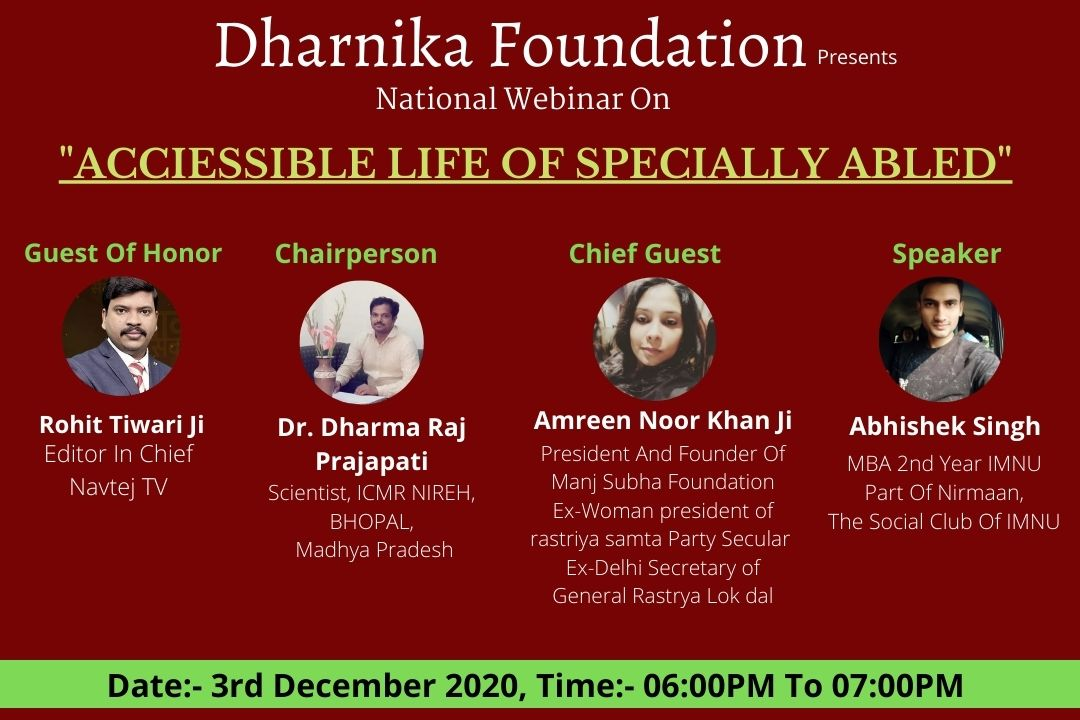
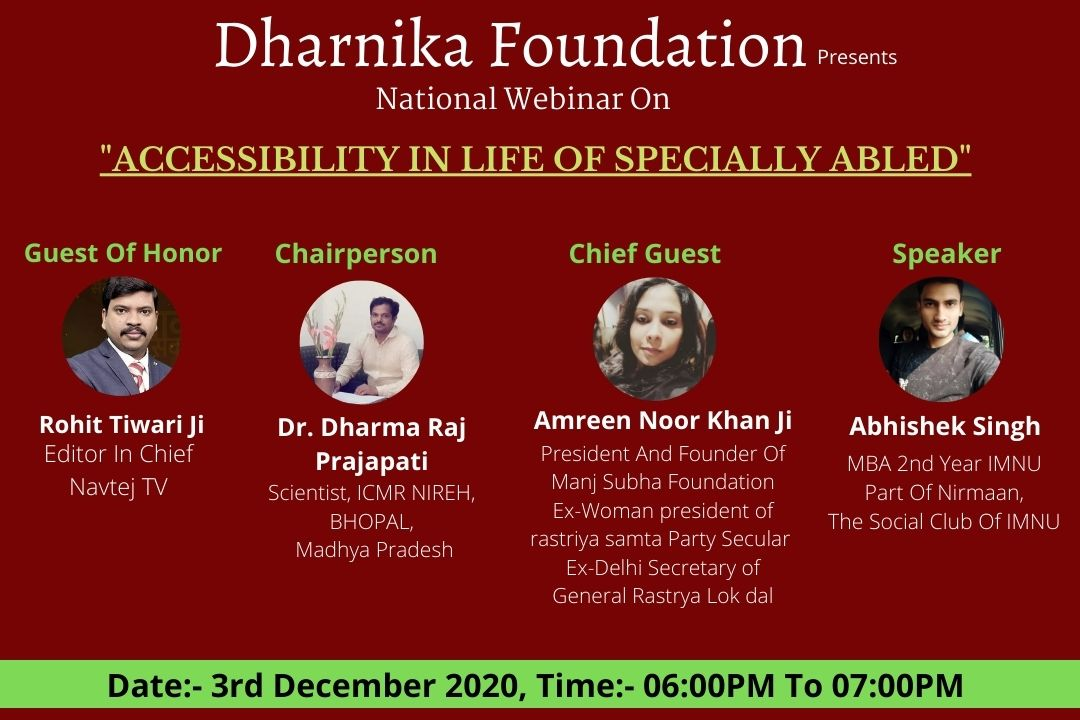
mistakes removed

Changed region(s): [[0.0611, 0.1833, 0.9472, 0.275]]

diff --git a/29nov.html b/29nov.html
@@ -192,7 +192,7 @@ The event started with Mr. Ashwani Gupta stating the various strategies and ways
                             <h3 class="footer_title">
                                 address
                             </h3>
-                            <p class="footer_text">Fifth Floor CDC Building BHU <br>
+                            <p class="footer_text">Shivpur Varanasi <br>
                                 <a class="domain" href="#">dharnikafoundation@gmail.com</a></p>
                             <div class="socail_links">
                                 <ul>

diff --git a/3dec.html b/3dec.html
@@ -194,7 +194,7 @@ The event talked about how it is important for each and every aspect of our life
                             <h3 class="footer_title">
                                 address
                             </h3>
-                            <p class="footer_text">Fifth Floor CDC Building BHU <br>
+                            <p class="footer_text">Shivpur Varanasi <br>
                                 <a class="domain" href="#">dharnikafoundation@gmail.com</a></p>
                             <div class="socail_links">
                                 <ul>

diff --git a/aakar10nov.html b/aakar10nov.html
@@ -193,7 +193,7 @@ Under the Mahatma Gandhi Gram Swarozgar Yojana, a three-day training was organiz
                             <h3 class="footer_title">
                                 address
                             </h3>
-                            <p class="footer_text">Fifth Floor CDC Building BHU <br>
+                            <p class="footer_text">Shivpur Varanasi <br>
                                 <a class="domain" href="#">dharnikafoundation@gmail.com</a></p>
                             <div class="socail_links">
                                 <ul>

diff --git a/aakar24nov.html b/aakar24nov.html
@@ -195,7 +195,7 @@ Under Mahatma Gandhi Gram Swarozgar Yojana, a three-day food processing training
                             <h3 class="footer_title">
                                 address
                             </h3>
-                            <p class="footer_text">Fifth Floor CDC Building BHU <br>
+                            <p class="footer_text">Shivpur Varanasi <br>
                                 <a class="domain" href="#">dharnikafoundation@gmail.com</a></p>
                             <div class="socail_links">
                                 <ul>

diff --git a/08nov2020.html b/08nov2020.html
@@ -203,7 +203,7 @@
                             <h3 class="footer_title">
                                 address
                             </h3>
-                            <p class="footer_text">Fifth Floor CDC Building BHU <br>
+                            <p class="footer_text">Shivpur Varanasi <br>
                                 <a class="domain" href="#">dharnikafoundation@gmail.com</a></p>
                             <div class="socail_links">
                                 <ul>

diff --git a/11oct2020.html b/11oct2020.html
@@ -189,7 +189,7 @@
                             <h3 class="footer_title">
                                 address
                             </h3>
-                            <p class="footer_text">Fifth Floor CDC Building BHU <br>
+                            <p class="footer_text">Shivpur Varanasi <br>
                                 <a class="domain" href="#">dharnikafoundation@gmail.com</a></p>
                             <div class="socail_links">
                                 <ul>

diff --git a/18oct2020.html b/18oct2020.html
@@ -189,7 +189,7 @@
                             <h3 class="footer_title">
                                 address
                             </h3>
-                            <p class="footer_text">Fifth Floor CDC Building BHU <br>
+                            <p class="footer_text">Shivpur Varanasi <br>
                                 <a class="domain" href="#">dharnikafoundation@gmail.com</a></p>
                             <div class="socail_links">
                                 <ul>

diff --git a/25oct2020.html b/25oct2020.html
@@ -199,7 +199,7 @@
                             <h3 class="footer_title">
                                 address
                             </h3>
-                            <p class="footer_text">Fifth Floor CDC Building BHU <br>
+                            <p class="footer_text">Shivpur Varanasi <br>
                                 <a class="domain" href="#">dharnikafoundation@gmail.com</a></p>
                             <div class="socail_links">
                                 <ul>

diff --git a/our-member.html b/our-member.html
@@ -583,7 +583,7 @@
                             <h3 class="footer_title">
                                 address
                             </h3>
-                            <p class="footer_text">Fifth Floor CDC Building BHU <br>
+                            <p class="footer_text">Shivpur Varanasi <br>
                                 <a class="domain" href="#">dharnikafoundation@gmail.com</a></p>
                             <div class="socail_links">
                                 <ul>
